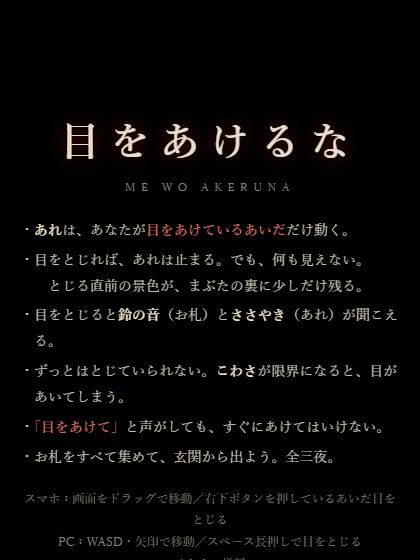
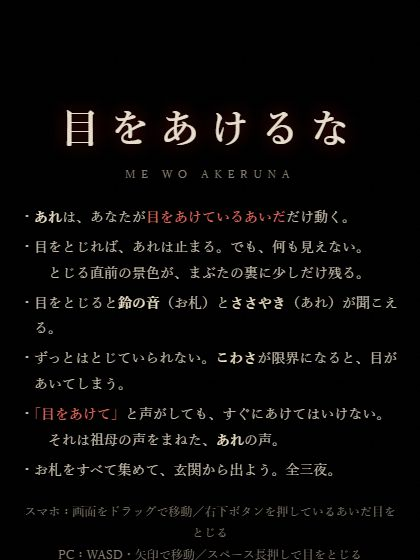
自動公開 / 更新: 目をあけるな

diff --git a/apps/me-wo-akeruna/index.html b/apps/me-wo-akeruna/index.html
@@ -76,7 +76,7 @@
    # 壁 / . 畳 / - 板の間 / T 座卓 / B 仏壇 / O お札 / E 玄関 / P 自分 / M あれ */
 const NIGHTS=[
  {name:'一夜目',speed:1.2,fake:.2,err:.3,fearRate:1/6,
-  story:['祖母の家に泊まった夜。','廊下の奥から、だれかが歩いてくる。','祖母は言っていた。','「あれは、見られているあいだしか動けない」','「目をとじていれば、だいじょうぶ」','お札を集めて、玄関から出なければ。'],
+  story:['祖母の家に泊まった夜。','廊下の奥から、だれかが歩いてくる。','祖母は言っていた。','「あれは、見られているあいだしか動けない」','「目をとじていれば、だいじょうぶ」','「あれは、わたしの声をまねるからね」','「わたしが呼んでも、あけちゃだめだよ」','お札を集めて、玄関から出なければ。'],
   map:[
   '########################',
   '#.....#.....P....#.....#',
@@ -112,7 +112,7 @@ const NIGHTS=[
   '#..E........#---......#----#',
   '############################']},
  {name:'三夜目',speed:1.8,fake:.5,err:.15,fearRate:1/5,
-  story:['最後の夜。','仏壇の写真が、こちらを向いていた。','「目をあけて」','──その声は、祖母の声によく似ていた。'],
+  story:['最後の夜。','仏壇の写真が、こちらを向いていた。','「目をあけて」','──祖母の声をまねた、あれの声だった。'],
   map:[
   '##############################',
   '#P---#........#.....#........#',
@@ -295,7 +295,7 @@ function trap(){
   const md=distAt(G.mon.x,G.mon.y);
   if(c.length&&(md<0||md>3)){const [x,y]=c[Math.random()*c.length|0];G.mon.x=x+.5;G.mon.y=y+.5;G.mon.tx=null}
   sfx.sting();G.stingCool=6;G.mon.seen=true;
-  msg(G.hintTrap?'……ちがう。祖母の声じゃない。<br>「目をあけて」と言われても、すぐにあけてはいけない。':'……ちがう。',G.hintTrap?5.5:2.5);G.hintTrap=false;
+  msg(G.hintTrap?'……ちがう。祖母の声をまねた、<b>あれ</b>の声だ。<br>「目をあけて」と言われても、すぐにあけてはいけない。':'……ちがう。あれの声だ。',G.hintTrap?5.5:2.5);G.hintTrap=false;
 }
 
 /* ===================== 更新 ===================== */
@@ -627,7 +627,7 @@ function showTitle(){
     '<li>・目をとじれば、あれは止まる。でも、何も見えない。<br>　とじる直前の景色が、まぶたの裏に少しだけ残る。</li>'+
     '<li>・目をとじると<b>鈴の音</b>（お札）と<b>ささやき</b>（あれ）が聞こえる。</li>'+
     '<li>・ずっとはとじていられない。<b>こわさ</b>が限界になると、目があいてしまう。</li>'+
-    '<li>・<b class="r">「目をあけて」</b>と声がしても、すぐにあけてはいけない。</li>'+
+    '<li>・<b class="r">「目をあけて」</b>と声がしても、すぐにあけてはいけない。<br>　それは祖母の声をまねた、<b>あれ</b>の声。</li>'+
     '<li>・お札をすべて集めて、玄関から出よう。全三夜。</li></ul>'+
     '<div class="ctrl">スマホ：画面をドラッグで移動／右下ボタンを押しているあいだ目をとじる<br>PC：WASD・矢印で移動／スペース長押しで目をとじる<br>イヤホン推奨</div>'+
     '<div class="btns"><button class="bt" id="bNew">はじめから</button>'+cont+'</div></div>');
